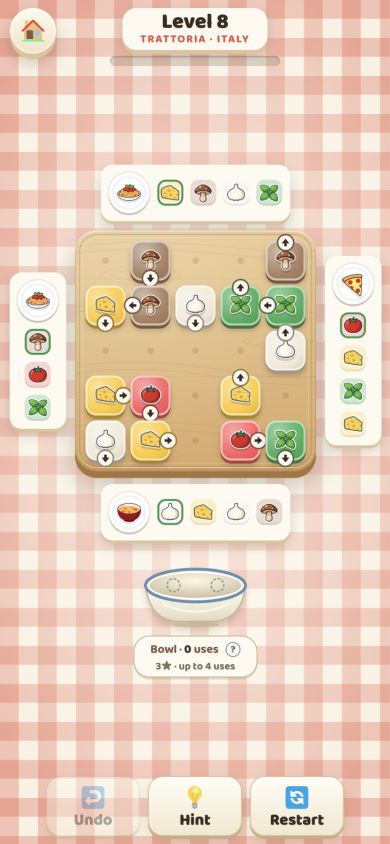
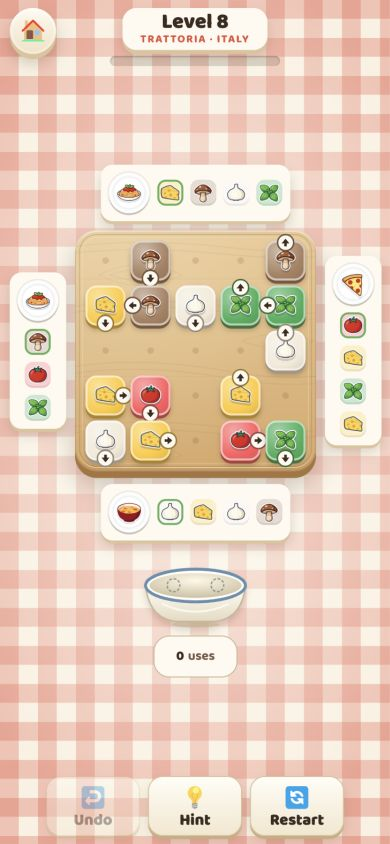
Keep the storage counter small and show star goals on tap

diff --git a/src/view/BoardView.ts b/src/view/BoardView.ts
@@ -27,6 +27,8 @@ export interface BoardHandlers {
 
 const GAP = 9;
 const PAD = 8;
+const USAGE_WIDTH = 84;
+const USAGE_BESIDE = USAGE_WIDTH + 12;
 
 /** A ceramic vessel with a visible oval opening, curved sides and a small foot. */
 function bowlShell(width: number, height: number, openingHeight: number): string {
@@ -241,7 +243,7 @@ export class BoardView {
     const coreRoom = () => midH - topBand - bottomBand - (cap && !side ? this.bowlHeight(this.spot) + storageGap : 0);
     const storage = this.bowlDimensions(this.spot, false);
     // A crowded phone can keep the counter beside the vessel without reducing food sizes.
-    if (cap && !side && coreRoom() < Math.max(hh * cell + 2 * PAD, minimumSideHeight) && storage.width + 136 <= areaW - 8) this.usageBeside = true;
+    if (cap && !side && coreRoom() < Math.max(hh * cell + 2 * PAD, minimumSideHeight) && storage.width + USAGE_BESIDE <= areaW - 8) this.usageBeside = true;
     for (let pass = 0; pass < 2; pass++) {
       const room = coreRoom();
       this.recipeGaps = this.recipeGaps.map((gap, i) => {
@@ -341,9 +343,9 @@ export class BoardView {
       Object.assign(this.bowlEl.style, { left: `${x}px`, top: `${top + bh / 2}px`, transform: 'translate(-50%, -50%)' });
     } else {
       const bowlTop = coreTop + coreH + bottomBand + storageGap;
-      const groupWidth = this.usageBeside ? bowlSize.width + 136 : Math.max(bowlSize.width, 124);
+      const groupWidth = this.usageBeside ? bowlSize.width + USAGE_BESIDE : Math.max(bowlSize.width, USAGE_WIDTH);
       const center = Math.max(fr.left + groupWidth / 2 + 4, Math.min(W - fr.right - groupWidth / 2 - 4, left + bw / 2));
-      Object.assign(this.bowlEl.style, { left: `${center - (this.usageBeside ? 68 : 0)}px`, top: `${bowlTop}px`, transform: 'translate(-50%, 0)' });
+      Object.assign(this.bowlEl.style, { left: `${center - (this.usageBeside ? USAGE_BESIDE / 2 : 0)}px`, top: `${bowlTop}px`, transform: 'translate(-50%, 0)' });
     }
     for (const el of [this.tieUnder, this.tieOver]) {
       el.setAttribute('width', String(W));
@@ -632,7 +634,7 @@ export class BoardView {
     }
     const word = jar ? 'Jar' : 'Bowl';
     const par = this.level.stats?.par ?? 0;
-    this.bowlUsage.innerHTML = `<span class="usage-count"><span>${word} · <strong>${sim.parks}</strong> ${sim.parks === 1 ? 'use' : 'uses'}</span><span class="usage-info-dot" aria-hidden="true">?</span></span><span class="usage-goal">3★ · up to ${par} ${par === 1 ? 'use' : 'uses'}</span>`;
+    this.bowlUsage.innerHTML = `<strong>${sim.parks}</strong><span>${sim.parks === 1 ? 'use' : 'uses'}</span>`;
     this.bowlUsage.setAttribute('aria-label', `${word} used ${sim.parks} ${sim.parks === 1 ? 'time' : 'times'}. Three stars allow up to ${par} ${par === 1 ? 'use' : 'uses'}. Show star scoring.`);
     this.bowlUsage.title = 'How storage use affects stars';
     this.bowlEl.append(this.bowlUsage);

diff --git a/src/ui/ui.css b/src/ui/ui.css
@@ -403,14 +403,11 @@ button { font-family: var(--font); cursor: pointer; color: inherit; }
 @keyframes bowl-flash { 25% { translate: -4px 0; } 50% { translate: 4px 0; } 75% { translate: -2px 0; } }
 .storage-usage {
   position: absolute; left: 50%; top: calc(100% + 8px); transform: translateX(-50%); z-index: 3;
-  display: flex; flex-direction: column; align-items: center; justify-content: center; gap: 1px; min-width: 124px; min-height: 42px; padding: 3px 9px;
+  display: flex; align-items: center; justify-content: center; gap: 4px; min-width: 84px; min-height: 42px; padding: 4px 10px;
   border: 1px solid #c9b895; border-radius: 16px; background: var(--paper); color: var(--ink-soft);
-  box-shadow: 0 2px 0 rgba(148, 111, 65, 0.22); font-family: var(--font); font-size: 12px; font-weight: 650; white-space: nowrap;
+  font-family: var(--font); font-size: 13px; font-weight: 650; white-space: nowrap;
 }
 .storage-usage strong { color: var(--ink); font-weight: 800; }
-.usage-count { display: flex; align-items: center; gap: 7px; }
-.usage-goal { color: #6b795c; font-size: 10.5px; font-weight: 700; line-height: 1.2; }
-.usage-info-dot { display: grid; place-items: center; width: 15px; height: 15px; border: 1px solid #8296a0; border-radius: 50%; color: #647f8a; font-size: 10px; font-weight: 800; line-height: 1; }
 .storage-usage:focus-visible { outline: 3px solid var(--teal); outline-offset: 3px; }
 .storage-usage:active { translate: 0 1px; }
 .bowl.usage-beside .storage-usage { left: calc(100% + 12px); top: 50%; transform: translateY(-50%); }

diff --git a/docs/DESIGN.md b/docs/DESIGN.md
@@ -179,7 +179,7 @@ The goal was a look of its own, so that Pot Luck and Pixel Picnic feel like sibl
   badge.
 - **Pots:** order tickets with a plate. Food lands on the required recipe ingredient, then its tick appears. Mobile recipe icons are larger. Each ticket shows one recipe; the next appears when the current dish is complete.
 - **Board:** warm wood for each cuisine, with curved grain, faint knots and a routed groove around the rim.
-- **Storage:** a ceramic bowl with an oval opening and centered spaces, or a glass jar with a red cap. The jar has a wider neck, soft glass highlights and a badge on the next ingredient, preserving the last-in, first-out rule. A counter shows total uses and the three-star allowance; tap it for all star ranges.
+- **Storage:** a ceramic bowl with an oval opening and centered spaces, or a glass jar with a red cap. The jar has a wider neck, soft glass highlights and a badge on the next ingredient, preserving the last-in, first-out rule. A small single-line counter shows total uses. Tap it for the level's star ranges; the vessel supplies the context without another label or help icon.
 - **Actions:** enamel buttons with readable Undo, Hint and Restart labels, beneath the board on phones and beside it on wide screens.
 - **Finished dishes:** a small green check at the plate's edge leaves the dish picture visible. Each plate centers along the edge when its ingredient strip disappears.
 - **Dialogs:** recipe cards with a ruled paper texture, a red margin line and a tape-like title.

diff --git a/README.md b/README.md
@@ -11,7 +11,7 @@ progress stays in your browser.
 
 <p>
   <img src="docs/screenshots/desktop-kitchen.jpg" width="620" alt="Pot Luck on desktop: ingredient stickers on a wooden board, recipe tickets and a knife that chops ingredients crossing its blade">
-  <img src="docs/screenshots/mobile-kitchen.jpg" width="230" alt="Pot Luck on a phone: matching dish and ingredient stickers, a ceramic bowl and its star allowance">
+  <img src="docs/screenshots/mobile-kitchen.jpg" width="230" alt="Pot Luck on a phone: matching dish and ingredient stickers, a ceramic bowl and a compact use counter">
 </p>
 
 ## How to play
